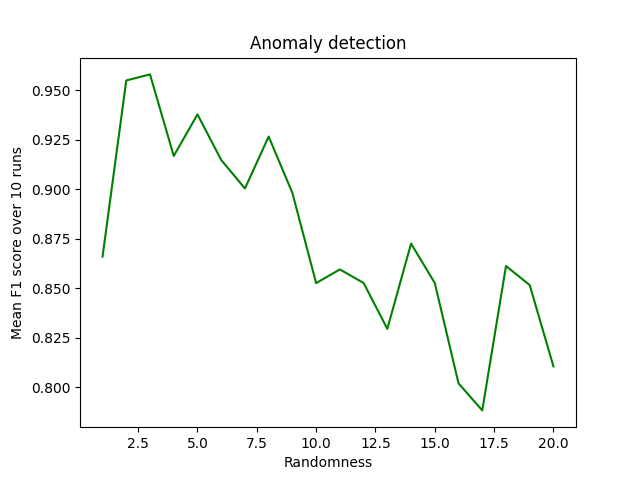
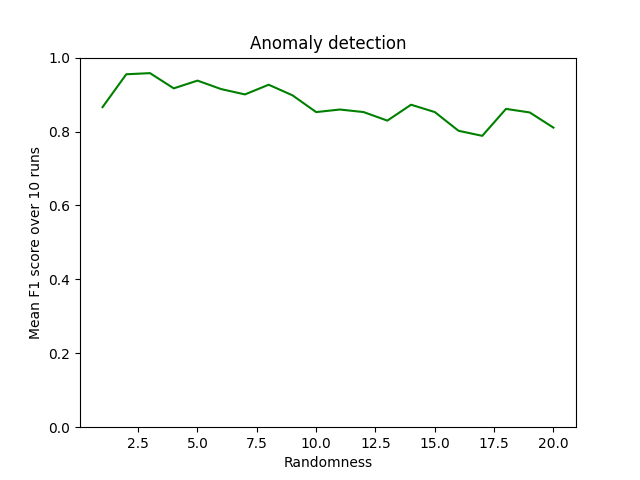
Set y scale [0, 1]

diff --git a/src/main/python/one_class_svm.py b/src/main/python/one_class_svm.py
@@ -55,6 +55,7 @@ results = np.array(list(map(process_scenario, randomness)))
 plt.title("Anomaly detection")
 plt.xlabel("Randomness")
 plt.ylabel(f'Mean accuracy score over {run_count} runs')
+plt.ylim([0, 1])
 plt.plot(randomness, results[:, 0], color='red')
 plt.savefig('plots/Accuracy.png')
 plt.clf()
@@ -62,6 +63,7 @@ plt.clf()
 plt.title("Anomaly detection")
 plt.xlabel("Randomness")
 plt.ylabel(f'Mean precision score over {run_count} runs')
+plt.ylim([0, 1])
 plt.plot(randomness, results[:, 1], color='green')
 plt.savefig('plots/Precision.png')
 plt.clf()
@@ -69,7 +71,7 @@ plt.clf()
 plt.title("Anomaly detection")
 plt.xlabel("Randomness")
 plt.ylabel(f'Mean recall score over {run_count} runs')
-
+plt.ylim([0, 1])
 plt.plot(randomness, results[:, 2], color='green')
 plt.savefig('plots/Recall.png')
 plt.clf()
@@ -77,7 +79,7 @@ plt.clf()
 plt.title("Anomaly detection")
 plt.xlabel("Randomness")
 plt.ylabel(f'Mean F1 score over {run_count} runs')
-
+plt.ylim([0, 1])
 plt.plot(randomness, results[:, 3], color='green')
 plt.savefig('plots/F1.png')
 plt.clf()
